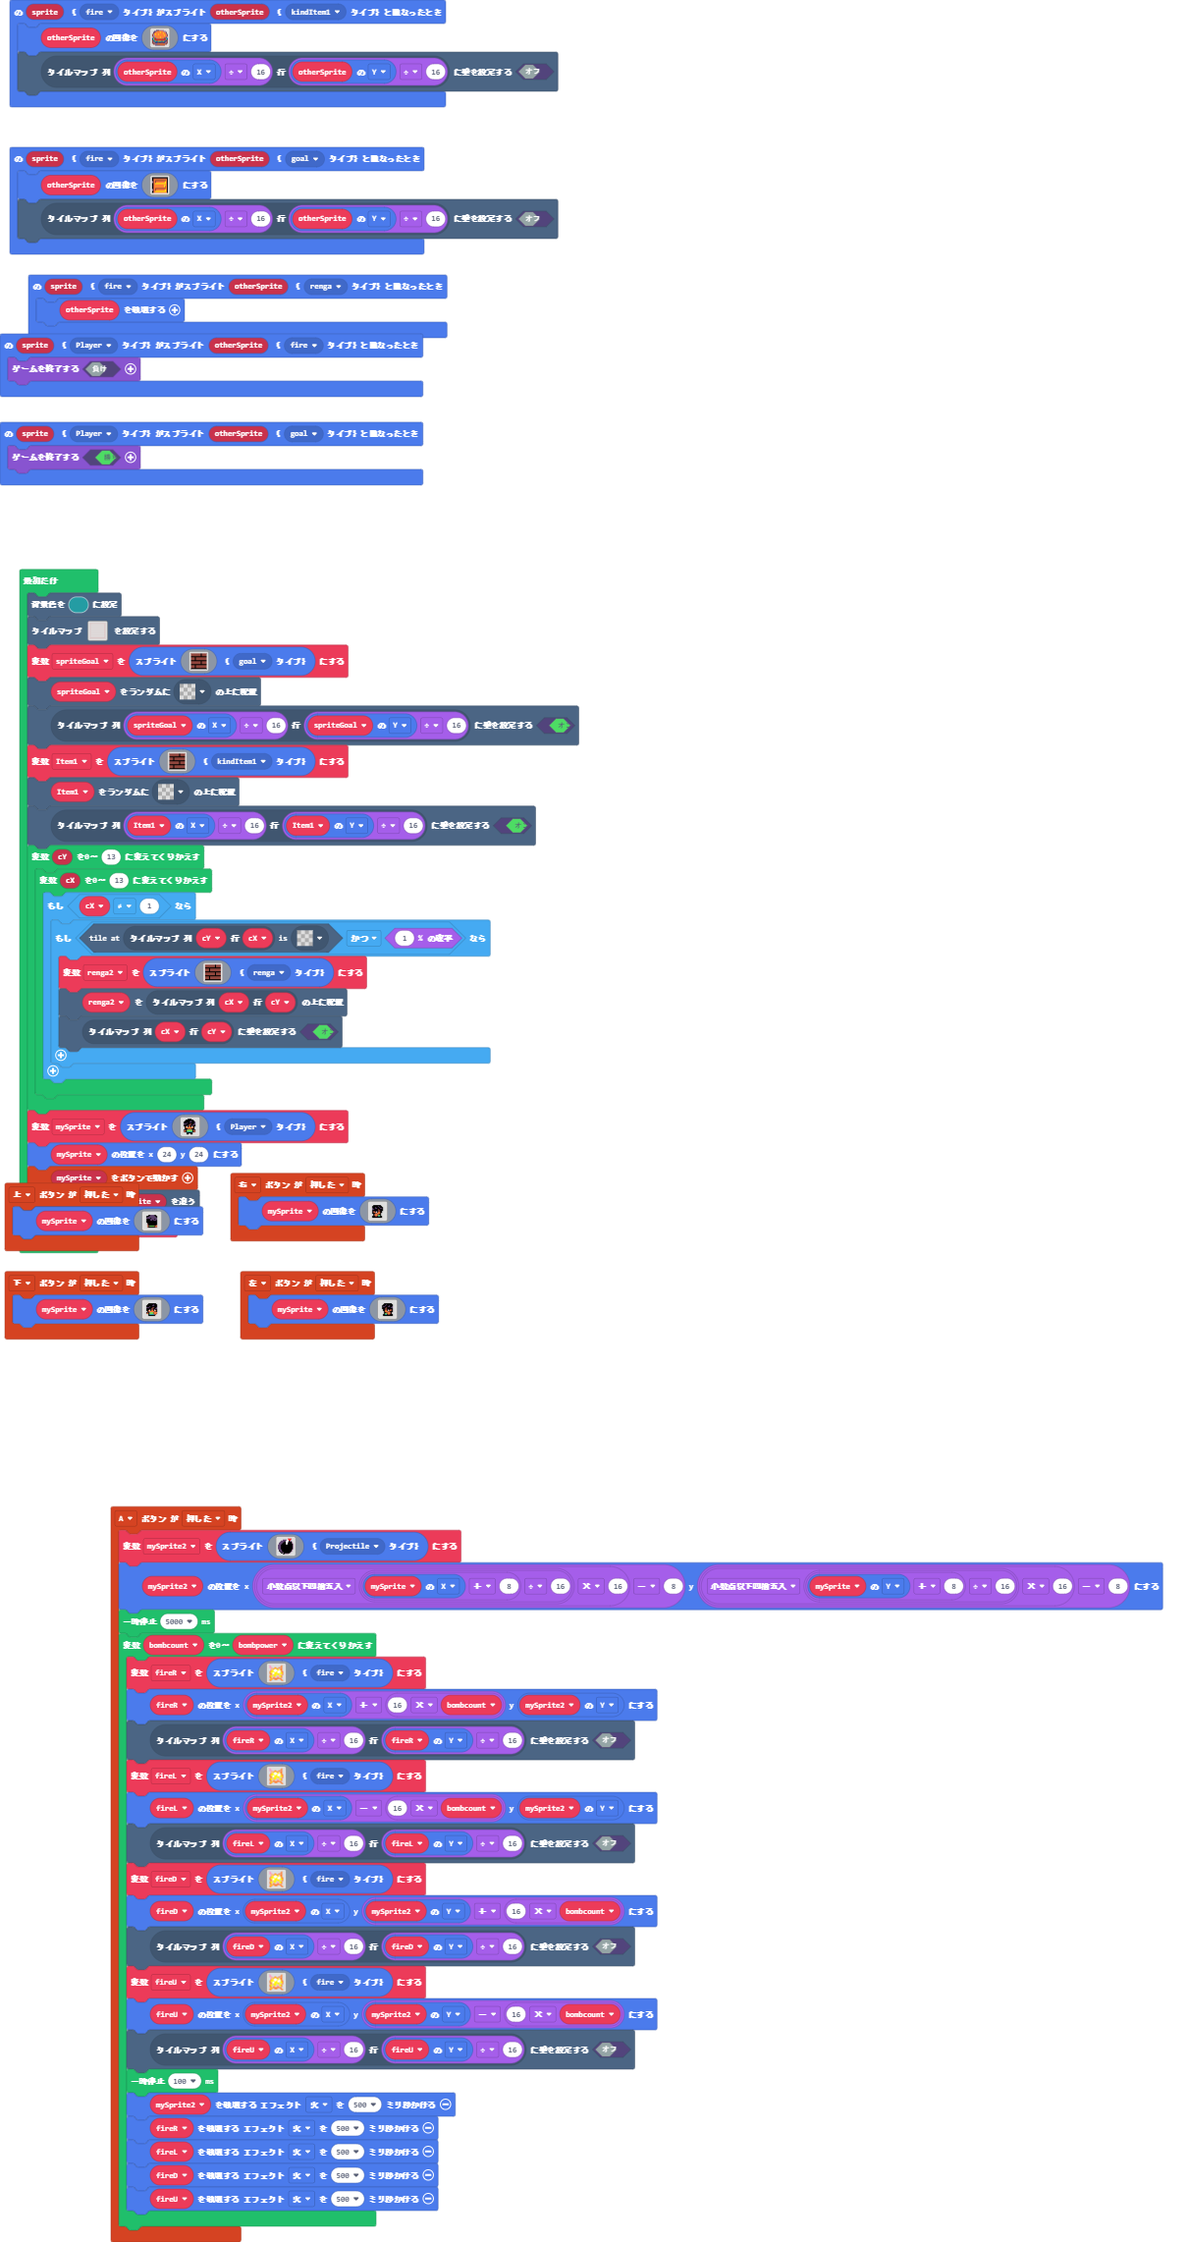
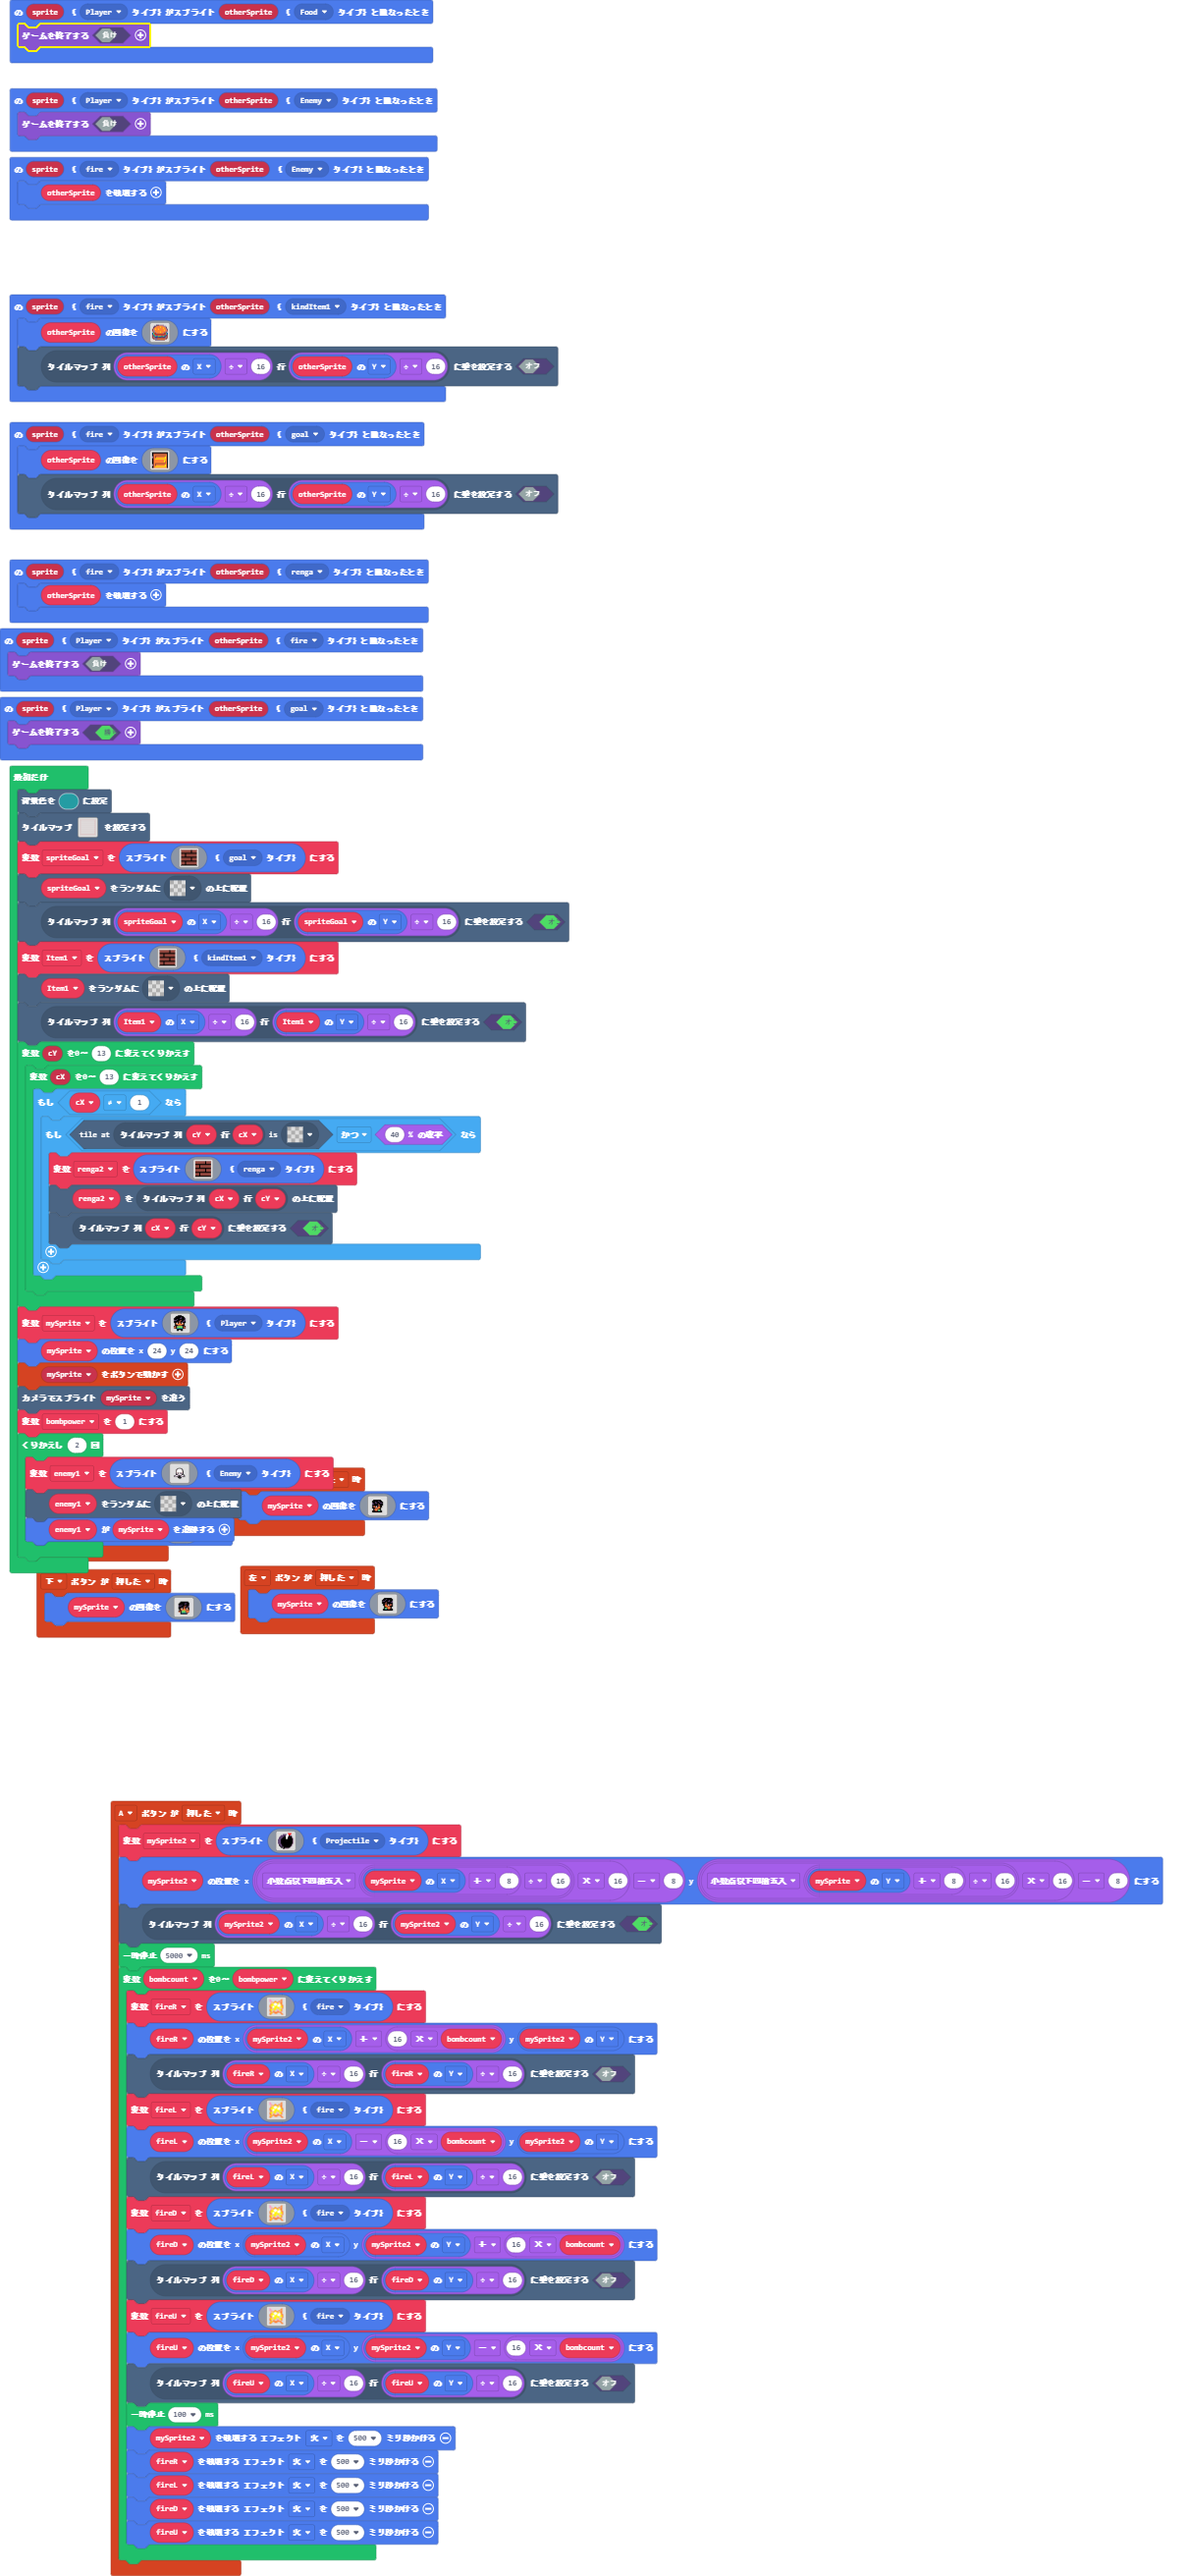
更新 main.blocks, main.ts

diff --git a/main.ts b/main.ts
@@ -47,6 +47,9 @@ sprites.onOverlap(SpriteKind.fire, SpriteKind.goal, function (sprite, otherSprit
         `)
     tiles.setWallAt(tiles.getTileLocation(otherSprite.x / 16, otherSprite.y / 16), false)
 })
+sprites.onOverlap(SpriteKind.fire, SpriteKind.Enemy, function (sprite, otherSprite) {
+    otherSprite.destroy()
+})
 sprites.onOverlap(SpriteKind.fire, SpriteKind.renga, function (sprite, otherSprite) {
     otherSprite.destroy()
 })
@@ -117,6 +120,9 @@ controller.left.onEvent(ControllerButtonEvent.Pressed, function () {
 sprites.onOverlap(SpriteKind.Player, SpriteKind.goal, function (sprite, otherSprite) {
     game.over(true)
 })
+sprites.onOverlap(SpriteKind.Player, SpriteKind.Food, function (sprite, otherSprite) {
+    game.over(false)
+})
 controller.up.onEvent(ControllerButtonEvent.Pressed, function () {
     mySprite.setImage(img`
         . . . . . . . . . . . . . 
@@ -136,6 +142,9 @@ controller.up.onEvent(ControllerButtonEvent.Pressed, function () {
         . . e f f f f f f f e e . 
         . . . . . . . . . . . . . 
         `)
+})
+sprites.onOverlap(SpriteKind.Player, SpriteKind.Enemy, function (sprite, otherSprite) {
+    game.over(false)
 })
 controller.A.onEvent(ControllerButtonEvent.Pressed, function () {
     mySprite2 = sprites.create(img`
@@ -157,6 +166,7 @@ controller.A.onEvent(ControllerButtonEvent.Pressed, function () {
         . . . . . f f b b b b . . . . . 
         `, SpriteKind.Projectile)
     mySprite2.setPosition(Math.round((mySprite.x + 8) / 16) * 16 - 8, Math.round((mySprite.y + 8) / 16) * 16 - 8)
+    tiles.setWallAt(tiles.getTileLocation(mySprite2.x / 16, mySprite2.y / 16), true)
     pause(5000)
     for (let bombcount = 0; bombcount <= bombpower; bombcount++) {
         fireR = sprites.create(img`
@@ -252,6 +262,7 @@ let fireD: Sprite = null
 let fireL: Sprite = null
 let fireR: Sprite = null
 let mySprite2: Sprite = null
+let enemy1: Sprite = null
 let bombpower = 0
 let mySprite: Sprite = null
 let renga2: Sprite = null
@@ -300,7 +311,7 @@ tiles.setWallAt(tiles.getTileLocation(Item1.x / 16, Item1.y / 16), true)
 for (let cY = 0; cY <= 13; cY++) {
     for (let cX = 0; cX <= 13; cX++) {
         if (cX != 1) {
-            if (tiles.tileAtLocationEquals(tiles.getTileLocation(cY, cX), assets.tile`transparency16`) && Math.percentChance(1)) {
+            if (tiles.tileAtLocationEquals(tiles.getTileLocation(cY, cX), assets.tile`transparency16`) && Math.percentChance(40)) {
                 renga2 = sprites.create(img`
                     e e e e e e e e e e f e e e e e 
                     e e e e e e e e e e f e e e e e 
@@ -347,3 +358,33 @@ mySprite.setPosition(24, 24)
 controller.moveSprite(mySprite)
 scene.cameraFollowSprite(mySprite)
 bombpower = 1
+for (let index = 0; index < 2; index++) {
+    enemy1 = sprites.create(img`
+        ........................
+        ........................
+        ........................
+        ........................
+        ..........ffff..........
+        ........ff1111ff........
+        .......fb111111bf.......
+        .......f11111111f.......
+        ......fd11111111df......
+        ......fd11111111df......
+        ......fddd1111dddf......
+        ......fbdbfddfbdbf......
+        ......fcdcf11fcdcf......
+        .......fb111111bf.......
+        ......fffcdb1bdffff.....
+        ....fc111cbfbfc111cf....
+        ....f1b1b1ffff1b1b1f....
+        ....fbfbffffffbfbfbf....
+        .........ffffff.........
+        ...........fff..........
+        ........................
+        ........................
+        ........................
+        ........................
+        `, SpriteKind.Enemy)
+    tiles.placeOnRandomTile(enemy1, assets.tile`transparency16`)
+    enemy1.follow(mySprite)
+}
